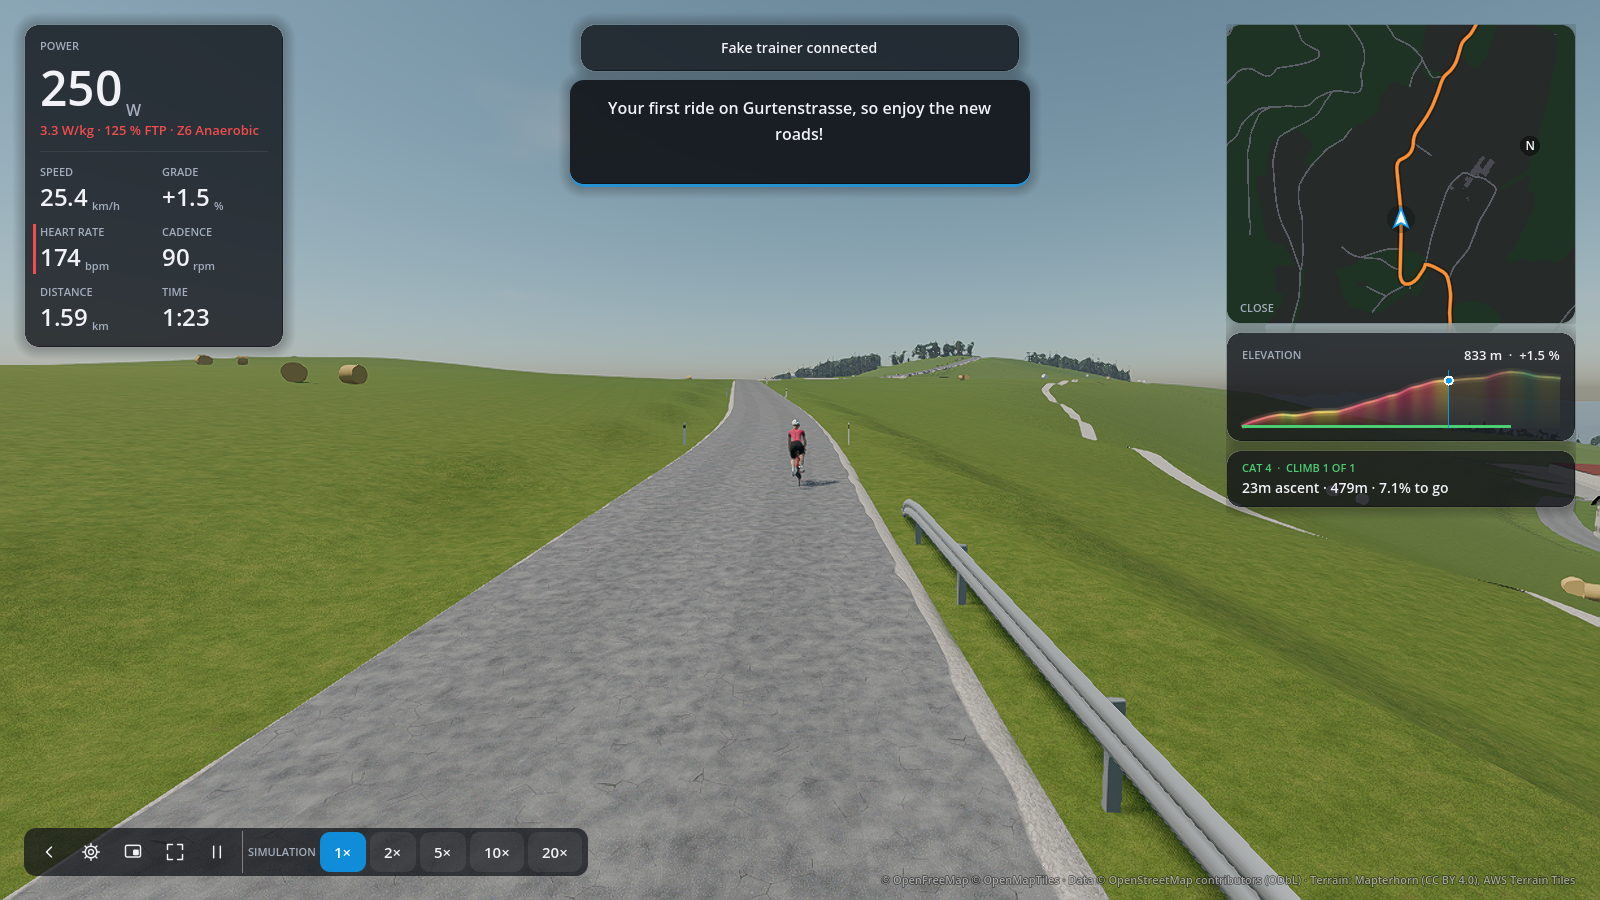
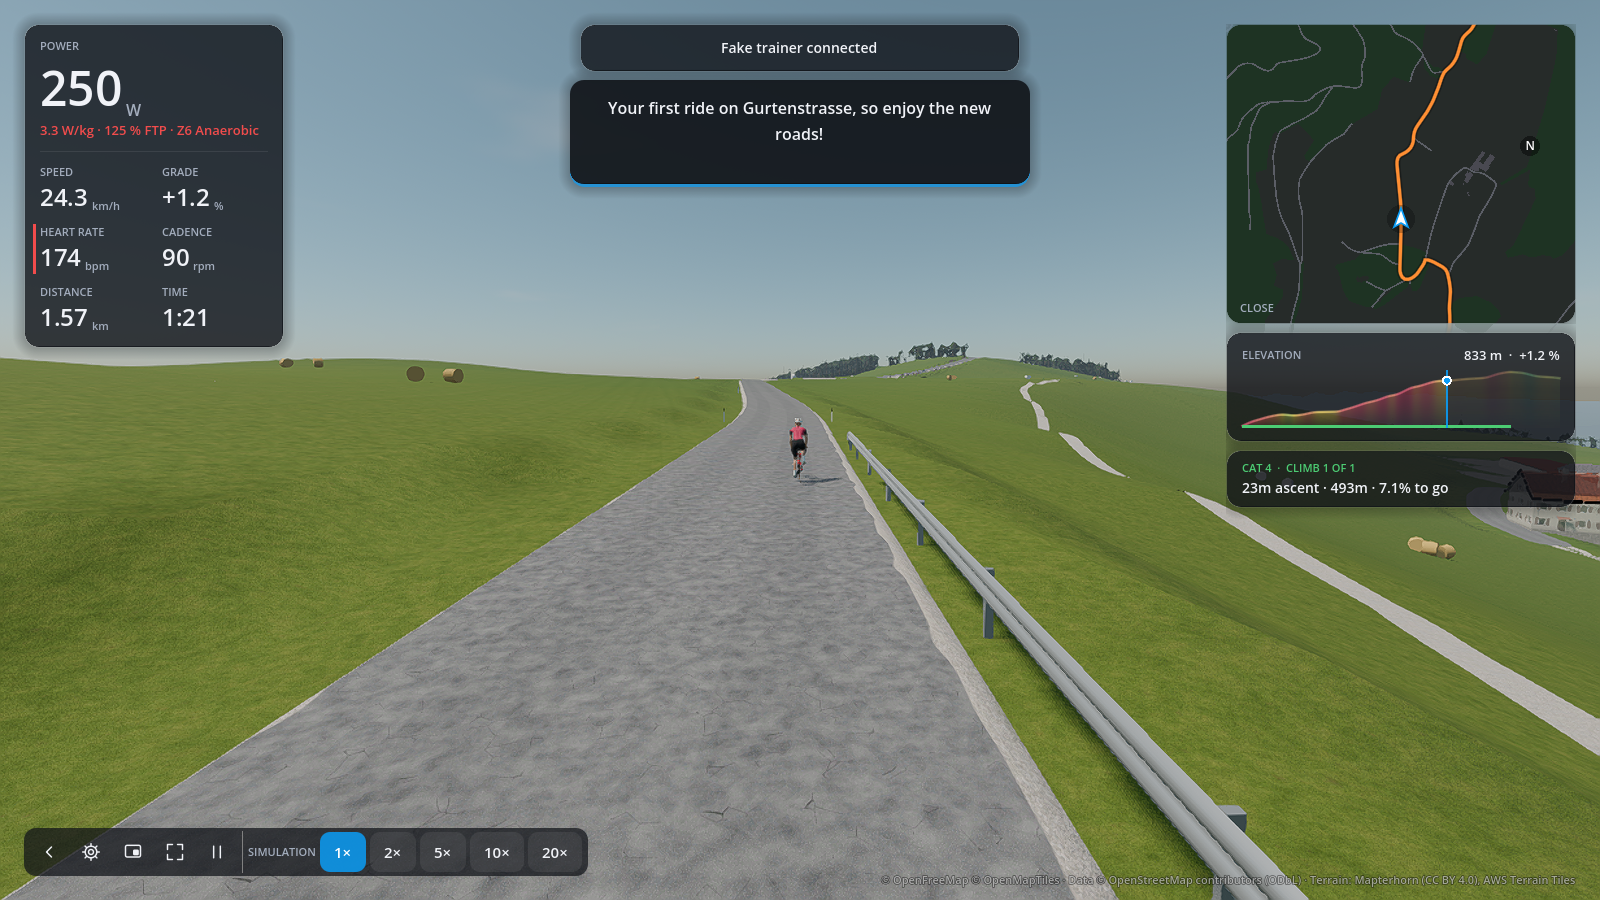
feat(ui): elevation colours as a dropdown, lighter over the ride
Review: the setting is a Plain / By gradient dropdown like Ride map, so the
rider settings stay alike. Over the 3D world the profile is lighter still:
the ridden area a third opaque, the part ahead faint, and no glow.

diff --git a/docs/REQUIREMENTS.md b/docs/REQUIREMENTS.md
@@ -670,5 +670,5 @@ Click, R75), and a Zwift Click v2 (R77, R96).
 
 | ID | Requirement |
 |---|---|
-| R241 | Refines R19 and R40 (2026-11-11): the area under the elevation profile is coloured by gradient, during a ride and wherever a course's profile is shown: **yellow on the flat, green going down and red going up, darker the steeper**, reaching the darkest green or red at 25% and beyond. During a ride the profile is drawn over the 3D world, so it stays see-through: the ridden part half-transparent and the part still ahead faint; the course view shows the whole profile solid. The outline, rider, friends, ghost and climb bands are unchanged. |
-| R242 | Refines R241 (2026-11-11): gradient colours are **opt-in**, per rider: **Elevation colors** in the rider's profile, off for new and existing riders. Off, the profile looks as before, with the ridden part in the accent colour and the rest light. The choice applies to the ride, course detail and group activity previews, and to a ride in progress as soon as it is saved. |
+| R241 | Refines R19 and R40 (2026-11-11): the area under the elevation profile is coloured by gradient, during a ride and wherever a course's profile is shown: **yellow on the flat, green going down and red going up, darker the steeper**, reaching the darkest green or red at 25% and beyond. During a ride the profile is drawn over the 3D world, so it stays see-through: the ridden part about a third opaque and the part still ahead faint, without the glow; the course view shows the whole profile solid. The outline, rider, friends, ghost and climb bands are unchanged. |
+| R242 | Refines R241 (2026-11-11): gradient colours are **opt-in**, per rider: **Elevation colors** in the rider's profile, a dropdown like **Ride map**: **Plain** (for new and existing riders) or **By gradient**. Plain, the profile looks as before, with the ridden part in the accent colour and the rest light. The choice applies to the ride, course detail and group activity previews, and to a ride in progress as soon as it is saved. |
